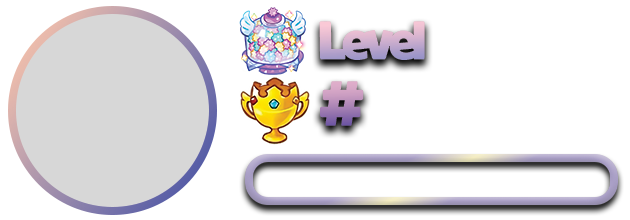
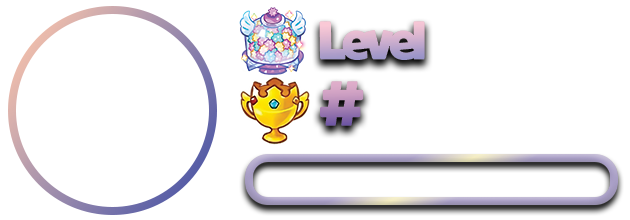
made /level now be a gif with a gif background

Changed region(s): [[0.0, 0.0545, 0.3317, 0.9545]]

diff --git a/levelImage.py b/levelImage.py
@@ -1,10 +1,10 @@
-from PIL import Image, ImageDraw, ImageFont
+from PIL import Image, ImageDraw, ImageFont, ImageSequence
 from PIL.Image import Resampling
 from io import BytesIO
 import numpy as np
 import requests
 
-def rankingHandler(level, highest_level, ranking, user_id) -> (str, int):
+def rankingHandler(level, highest_level, ranking, user_id):
     '''
     Badge ranking image
 
@@ -106,70 +106,114 @@ async def createImage(pfp, level, xp, url, highest_level, ranking, user_id):
         buffer (BytesIO) : Byte stream of the generated image
     '''
 
+    # Load fonts | 1 for level and rank, 2 for level progress
     font1 = ImageFont.truetype('assets/cookieRunFont.ttf', size=50)
     font2 = ImageFont.truetype('assets/cookieRunFont.ttf', size=25)
 
-    with Image.open('assets/level/azalea-level-page.png') as background:
+    # Load animated background and get dimensions
+    gif = Image.open('assets/level/testing-me.gif')
+    width, height = gif.size
+    
+    # Set fixed framerate for stability (24 fps = ~41.67ms per frame)
+    fixed_duration = round(1000 / 24)  # Calculate ms per frame for 24fps
+    loop = 0  # 0 means infinite loop
+    
+    # Load static overlay (azalea-level-page)
+    overlay = Image.open('assets/level/azalea-level-page.png').convert("RGBA")
+
+    # Prepare PFP
+    if url:
+        pfpImg = Image.open(requests.get(pfp, stream=True).raw).convert("RGBA")
+    else:
+        pfpImg = Image.open(pfp).convert("RGBA")
+
+    pfpImg = pfpImg.resize((195, 195), resample=Resampling.LANCZOS)
+
+    # Circular mask for PFP
+    bigsize = (pfpImg.size[0] * 3, pfpImg.size[1] * 3)
+    mask = Image.new('L', bigsize, 0)
+    draw = ImageDraw.Draw(mask)
+    draw.ellipse((0, 0) + bigsize, fill=255)
+    mask = mask.resize(pfpImg.size, Resampling.LANCZOS)
+    pfpImg.putalpha(mask)
+
+    # Load rank icon
+    rank, rankNum = rankingHandler(level, highest_level, ranking, user_id)
+    rankImg = Image.open(rank).convert("RGBA")
+    rankImg = rankImg.resize((90, 98), Image.LANCZOS)
+
+    # XP bar processing
+    xpStr = f"{xp//1000}.{str(xp)[-3:-1]}k" if xp >= 1000 else str(xp)
+    xpNeeded = 12 * level**2 + 60
+    xpNeededStr = f"{xpNeeded//1000}.{str(xpNeeded)[-3:-1]}k" if xpNeeded >= 1000 else str(xpNeeded)
+    percentage = int((xp / xpNeeded) * 320)
+
+    fullXPBar = Image.open('assets/level/Azalea-XP-Bar.png').convert("RGBA")
+    xpStatus = fullXPBar.crop((0, 0, percentage, 80))
+
+    # Create a palette-based version for better GIF compatibility
+    # Get all frames from the source GIF first
+    source_frames = []
+    for frame in ImageSequence.Iterator(gif):
+        source_frames.append(frame.copy())
+    
+    # Limit to max frames for stability
+    max_frames = min(24, len(source_frames))  # Limit to 24 frames or less
+    source_frames = source_frames[:max_frames]
+    
+    # Create output frames
+    frames = []
+    
+    # Process each frame
+    for i, source_frame in enumerate(source_frames):
+        # Create a new RGB background with white (for proper GIF handling)
+        composed = Image.new("RGB", (width, height), (255, 255, 255))
         
-        # load background
-        background.load()
-
-        # Open the PFP
-        if url:
-            pfpImg = Image.open(requests.get(pfp, stream=True).raw)
-        else:
-            pfpImg = Image.open(pfp)
+        # Convert source frame to RGB and paste it
+        if hasattr(source_frame, 'convert'):
+            bg_frame = source_frame.convert("RGB")
+            composed.paste(bg_frame, (0, 0))
         
-        # Resizing PFP
-        pfpImg = pfpImg.resize((192,192), resample=Resampling.LANCZOS)
-
-        # Add a circular mask to the PFP image
-        bigsize = (pfpImg.size[0] * 3, pfpImg.size[1] * 3)
-        mask = Image.new('L', bigsize, 0)
-        draw = ImageDraw.Draw(mask) 
-        draw.ellipse((0, 0) + bigsize, fill=255)
-        mask = mask.resize(pfpImg.size, Resampling.LANCZOS)
-        pfpImg.putalpha(mask)
-
-        # Paste pfp into background
-        # 18, 23
-        background.paste(pfpImg, (15,12), mask)
-
-        # Place the rank icon
-        rank, rankNum = rankingHandler(level, highest_level, ranking, user_id)
-
-        rankImg = Image.open(rank)
-        rankImg = rankImg.resize((90,98), Image.LANCZOS)
-
-        background.paste(rankImg, (150, 120), rankImg)
-
-        # determine the xp needed and pasting the current progression
-        xpStr = xp
-        if xp >= 1000:
-             xpStr = str(xp//1000) + '.' + str(xp)[-3:-1] + 'k'
-        xpNeeded = 12*level**2+60
-        xpNeededStr = xpNeeded
-        if xpNeeded >= 1000:
-            xpNeededStr = str(xpNeeded//1000) + '.' + str(xpNeeded)[-3:-1] + 'k'
-
-        # Crop the progression bar
-        percentage = int((xp/xpNeeded)*320)
-        xpStatus = Image.open('assets/level/Azalea-XP-Bar.png')
-        xpStatus = xpStatus.crop((0,0,percentage,80))
-
-        background.paste(xpStatus, (240,146), xpStatus)
+        # Now overlay all the UI elements
+        # Using Image.alpha_composite requires RGBA mode
+        composed_rgba = composed.convert("RGBA")
         
-        # Create ImageDraw to add text 
-        backgroundDraw = ImageDraw.Draw(background)
+        # Create a separate RGBA image for all the UI elements
+        ui_layer = Image.new("RGBA", composed.size, (0, 0, 0, 0))
+        
+        # Add all UI elements to the UI layer
+        ui_layer.paste(xpStatus, (240, 146), xpStatus)
+        ui_layer.paste(pfpImg, (15, 13), pfpImg)
+        ui_layer.paste(overlay, (0, 0), overlay)
+        ui_layer.paste(rankImg, (150, 121), rankImg)
 
-        # Drawing all of the text
-        backgroundDraw.text((615,140), f"{xpStr}/{xpNeededStr}", (240, 217, 108), font=font2, align='left', anchor='rb')
-        backgroundDraw.text((370,70), f"{rankNum}", (240, 217, 108), font=font1)
-        backgroundDraw.text((440,5), f'{level}', (240, 217, 108), font=font1)
+        
+        # Add text to UI layer
+        draw = ImageDraw.Draw(ui_layer)
+        draw.text((615, 140), f"{xpStr}/{xpNeededStr}", (240, 217, 108), font=font2, align='left', anchor='rb')
+        draw.text((370, 70), f"{rankNum}", (240, 217, 108), font=font1)
+        draw.text((440, 5), f'{level}', (240, 217, 108), font=font1)
+        
+        # Composite the UI layer onto the background
+        composed_final = Image.alpha_composite(composed_rgba, ui_layer)
+        
+        # Convert back to RGB mode for GIF compatibility
+        frames.append(composed_final.convert("RGB"))
 
-        # save to a file-like data
-        buffer = BytesIO()     
-        background.save(buffer, 'png') 
-        buffer.seek(0)  
+    # Save animated GIF to buffer
+    buffer = BytesIO()
+    
+    # Use PIL's GIF-specific save parameters
+    frames[0].save(
+        buffer,
+        format="GIF",
+        save_all=True,
+        append_images=frames[1:],
+        duration=fixed_duration,
+        loop=loop,
+        optimize=False,
+        disposal=2  # Restore to background color
+    )
+    buffer.seek(0)
 
-        return buffer
+    return buffer

diff --git a/leveling.py b/leveling.py
@@ -136,7 +136,7 @@ class Leveling(commands.Cog):
 
                 res = await createImage(pfp, level, xp, online, highest_level[0], rankings, member.id)
 
-                await interaction.edit_original_response(content=None, attachments=[discord.File(fp=res, filename='rank.png')])
+                await interaction.edit_original_response(content=None, attachments=[discord.File(fp=res, filename='rank.gif')])
 
             
     async def levelUp(self, message: discord.Message):
